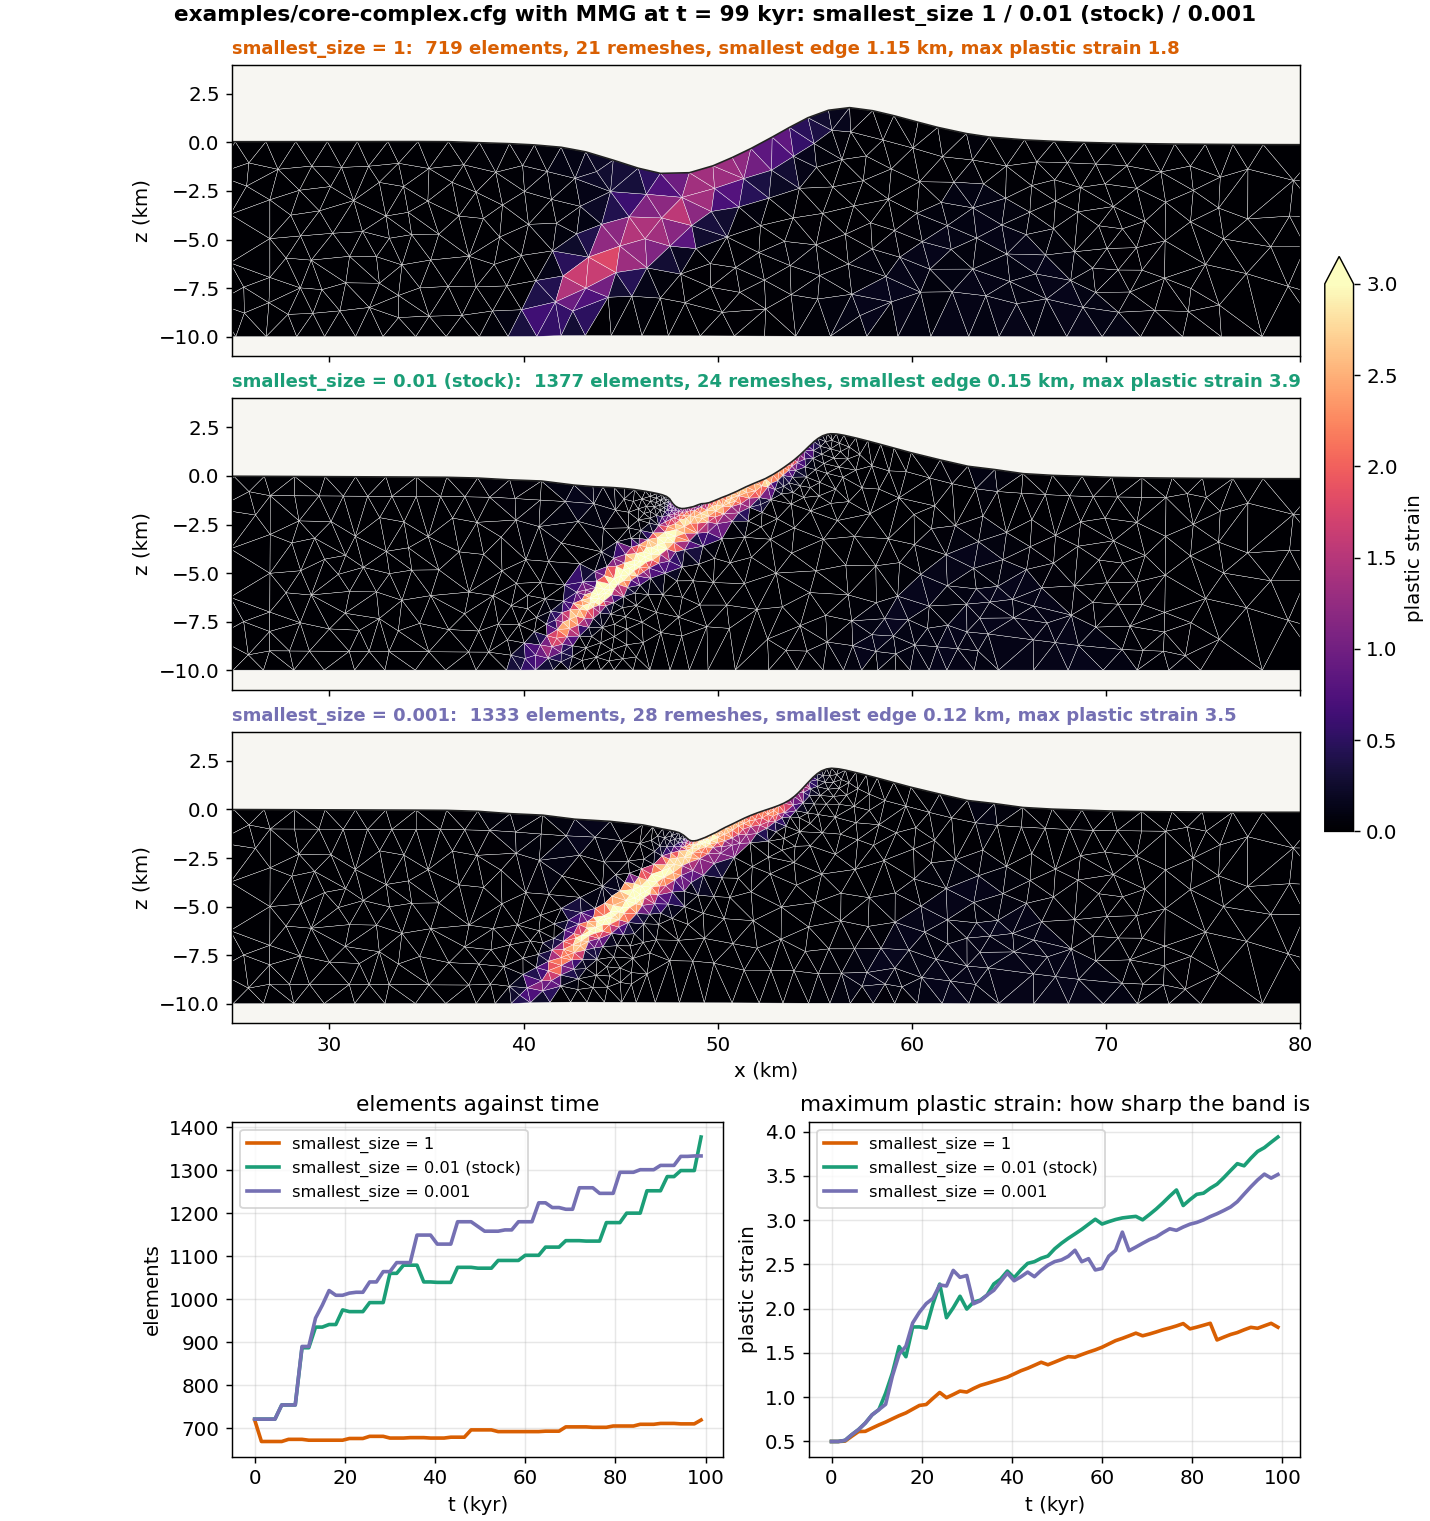
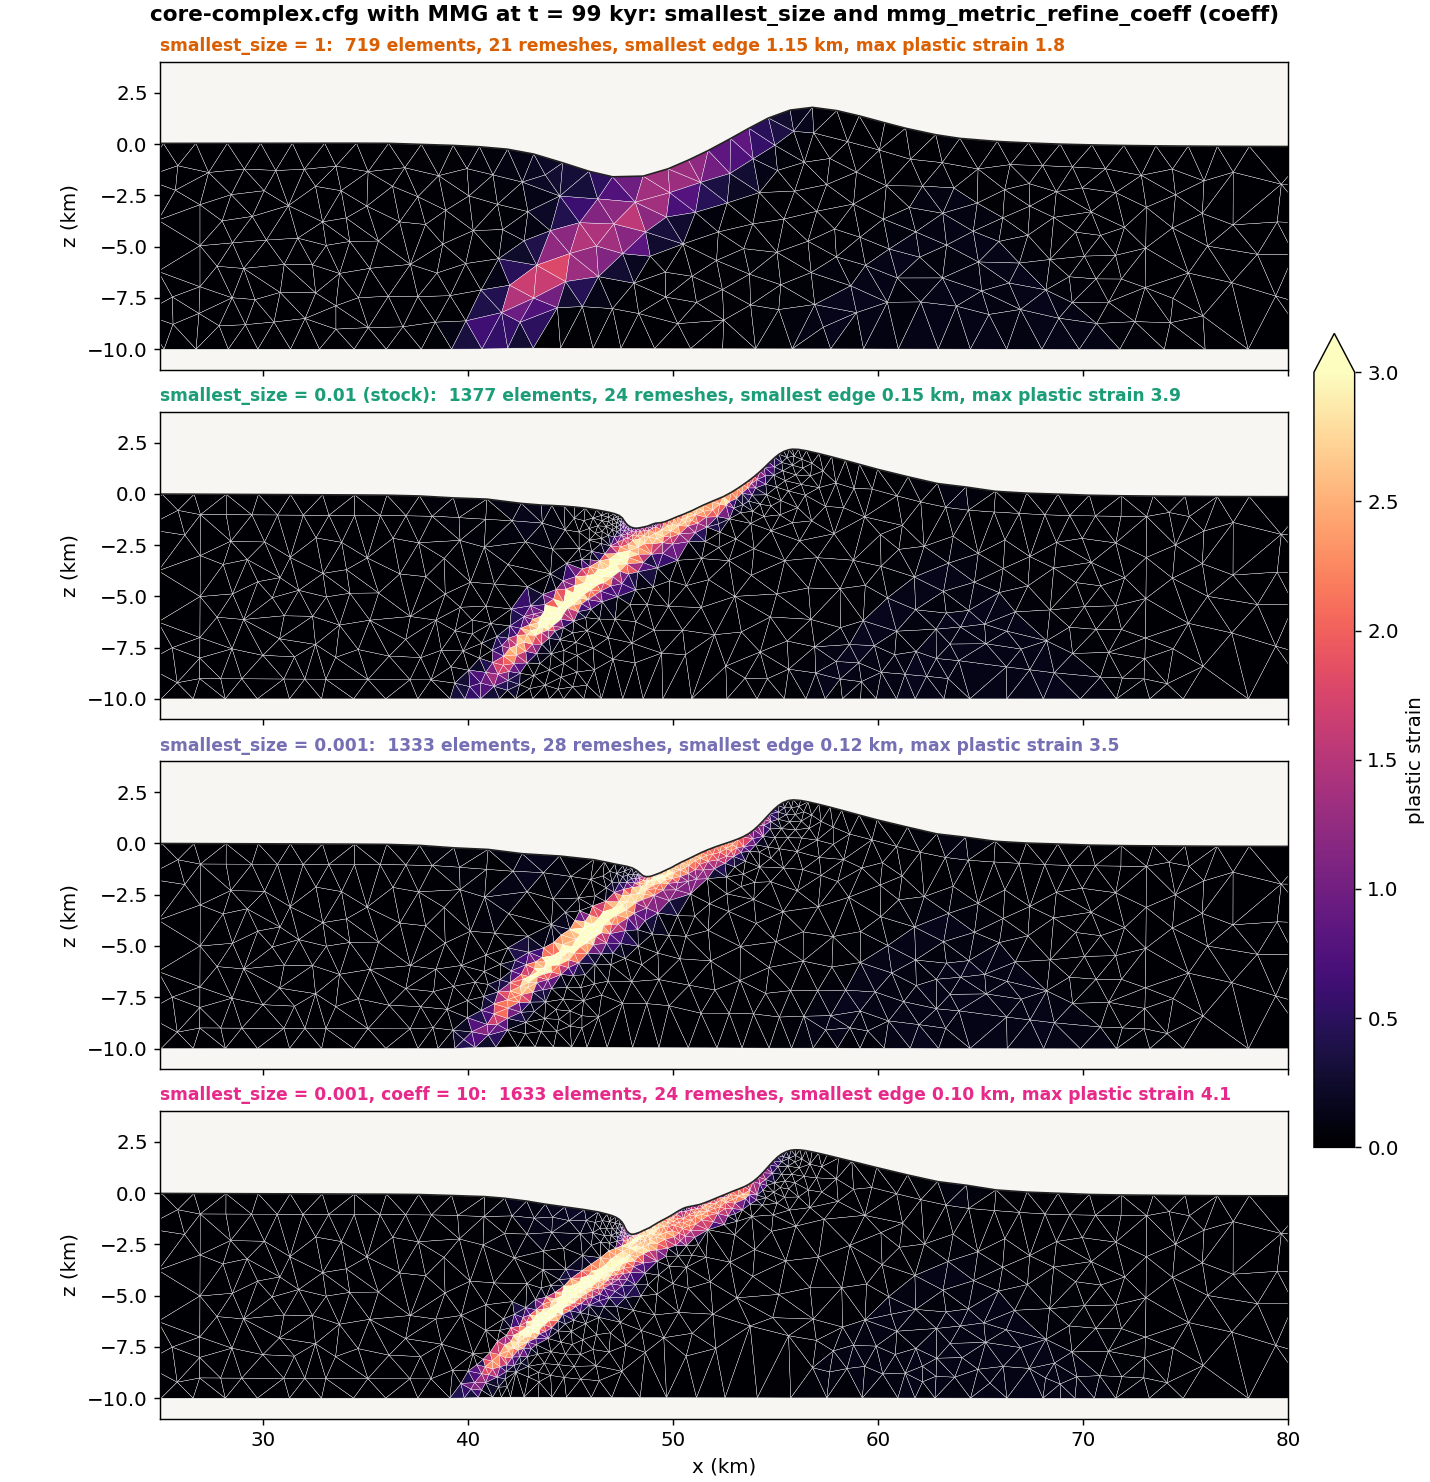
docs: Exercise 2 adds a stronger-target run and splits its figure; legends moved below the panels
A fourth run, smallest_size = 0.001 with mmg_metric_refine_coeff = 10,
shows that the floor alone did not limit the band: with the doubled target
the band holds 584 elements at a median edge of 0.29 km against 0.38, so
the two parameters act as a pair. The exercise table is trimmed to one
point per row, the figure is split into the four meshes and a second
figure with topography, time series and a stacked bar of elements by
plastic-strain class, and the diffusivity figure's legend moves below its
bottom row.

diff --git a/docs/tutorial/tectonics.md b/docs/tutorial/tectonics.md
@@ -408,40 +408,57 @@ the horizons are worth drawing. Each run took 5 to 12 minutes on 6 threads.
 
 ### Exercise 2: change how small the elements may get
 
-Requires the MMG build (`make ndims=2 usemmg=1`). `smallest_size` is the
-area of the smallest allowed element relative to one of edge `resolution`.
-With MMG it sets the floor of the refinement band,
+Requires the MMG build (`make ndims=2 usemmg=1`). Two parameters decide how
+fine the mesh becomes along the fault. `smallest_size` is the area of the
+smallest allowed element relative to one of edge `resolution`: with MMG it
+sets the floor of the refinement band,
 `resolution × (smallest_size × mmg_remesh_defensive_tiny_ratio)^(1/2)`, and
-for every remesher it sets the tiny-element trigger: an element compressed
-below `smallest_size` of its nominal area forces a remesh. Both scale with
+for every remesher it sets the tiny-element trigger, an element compressed
+below `smallest_size` of its nominal area forcing a remesh. Both scale with
 its square root, so a factor of 100 in `smallest_size` is a factor of 10 in
-element edge.
+element edge. `mmg_metric_refine_coeff` is the target: MMG aims for an
+element area of the initial one divided by `1 + coeff × plastic strain`, so
+at the default 5 an element at a plastic strain of 4 is asked to shrink to a
+fifth of its initial edge. The mesh can only be as fine as the target asks
+and the floor allows.
 
 | Run | `smallest_size` | Smallest MMG element | What you should see |
 |-----|-----------------|----------------------|---------------------|
-| No refinement | `1` | 1.2 km, the resolution itself | The mesh stays at about 720 elements; the fault is a diffuse band three or four 1 km elements wide and its plastic strain tops out at 1.8 instead of 3.9; relief 3.4 km instead of 3.9; the run takes 68 s |
-| Stock | `0.01` | 0.12 km | The band refines by up to ten times along the fault: about 1400 elements after 24 remeshes, plastic strain up to 3.9, a sharp fault; 12 min |
-| Very fine | `0.001` | 0.04 km | Almost the same mesh as the stock run: 1330 elements, smallest edge 0.12 km, plastic strain up to 3.5. The band does not get finer, because the refinement target, not the floor, limits it. The run takes 16 min, a third longer, with 60 % more steps |
+| No refinement | `1` | 1.2 km | A diffuse band 3 km wide that never sharpens; the run takes a tenth of the time |
+| Stock | `0.01` | 0.12 km | A sharp fault, about 1400 elements; 12 min |
+| Very fine | `0.001` | 0.04 km | The same mesh as stock, since the target rather than the floor limits refinement; 60 % more steps for nothing |
+| Very fine, stronger target | `0.001` with `mmg_metric_refine_coeff = 10` | 0.04 km | Now the band refines: 1630 elements, half again as many in the band |
 
-![smallest_size 1, the stock 0.01 and 0.001 at 100 kyr: plastic strain on the mesh for each, then element count and maximum plastic strain against time](./img/tectonics/core-complex-smallest-size.png)
+![smallest_size 1, the stock 0.01, 0.001, and 0.001 with a doubled refinement coefficient at 100 kyr: plastic strain on the mesh for each](./img/tectonics/core-complex-smallest-size.png)
 
-All three rows were run. Going up to `smallest_size = 1` costs resolution:
+All four rows were run. Going up to `smallest_size = 1` costs resolution:
 the fault still forms in the same place and the surface still domes, but
 the band cannot be narrower than the elements it runs through, so the strain
 is spread over a 3 km wide zone and the fault never sharpens. The time step
 is seven times longer, since it follows the smallest element, and the whole
 run takes a tenth of the time.
 
-Going down to `0.001` buys nothing. The smallest element in the stock run is
-0.15 km, above the 0.12 km floor, because MMG's target size along the fault
-is set by `mmg_metric_refine_coeff`, which shrinks an element to about a
-fifth of its initial edge at a plastic strain of 4. Lowering the floor below
-that target cannot refine the band further. What it does change is the
-tiny-element trigger: squeezed elements may now shrink to a third of the
-size before a remesh repairs them, so the time step falls and the run needs
-60 % more steps for the same result. The lesson is that `smallest_size`
-caps the refinement from below, and the useful range is where that cap
-binds; past it, lowering it only costs time.
+Going down to `0.001` alone buys nothing. The smallest element in the stock
+run is 0.15 km, above the 0.12 km floor, so the floor was not what stopped
+the refinement; the target was. Lowering the floor further cannot refine the
+band, and what it does change is the tiny-element trigger: squeezed elements
+may now shrink to a third of the size before a remesh repairs them, so the
+time step falls and the run needs 60 % more steps for the same result.
+
+Raising the target as well, `mmg_metric_refine_coeff = 10`, is what makes
+the lower floor useful. The band now holds 580 elements instead of 350, at a
+median edge of 0.29 km instead of 0.38, and the smallest element reaches
+0.10 km, still above the 0.04 km floor. The fault is drawn more sharply and
+the maximum plastic strain is a little higher, 4.1 against 3.9.
+
+![The same four runs: final surface topography, then element count and maximum plastic strain against time, and the elements of each run at 100 kyr split by plastic strain](./img/tectonics/core-complex-smallest-size-series.png)
+
+The surface itself hardly notices: the three refined runs end with the same crest and
+basin to within 0.2 km, and only the unrefined run is lower and broader. The
+lesson is that the two parameters work as a pair: the target asks for refinement
+where plastic strain accumulates, the floor caps how far it may go, and
+moving one without the other changes the cost of the run more than its
+result.
 
 Change one parameter at a time, and keep a log of what you changed.
 
